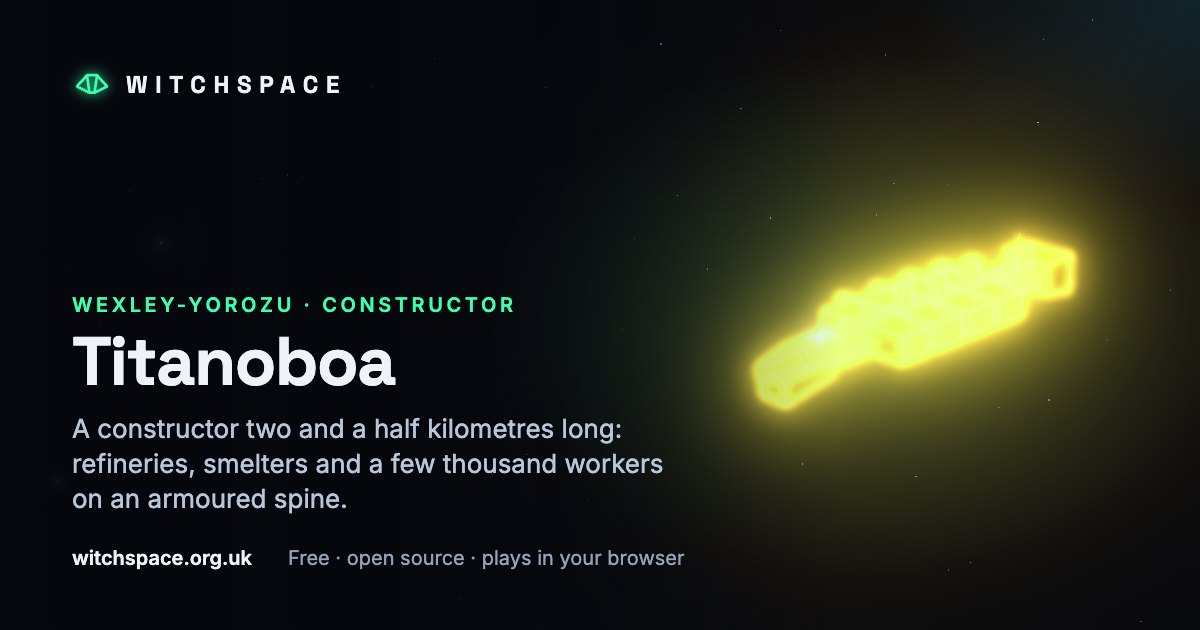
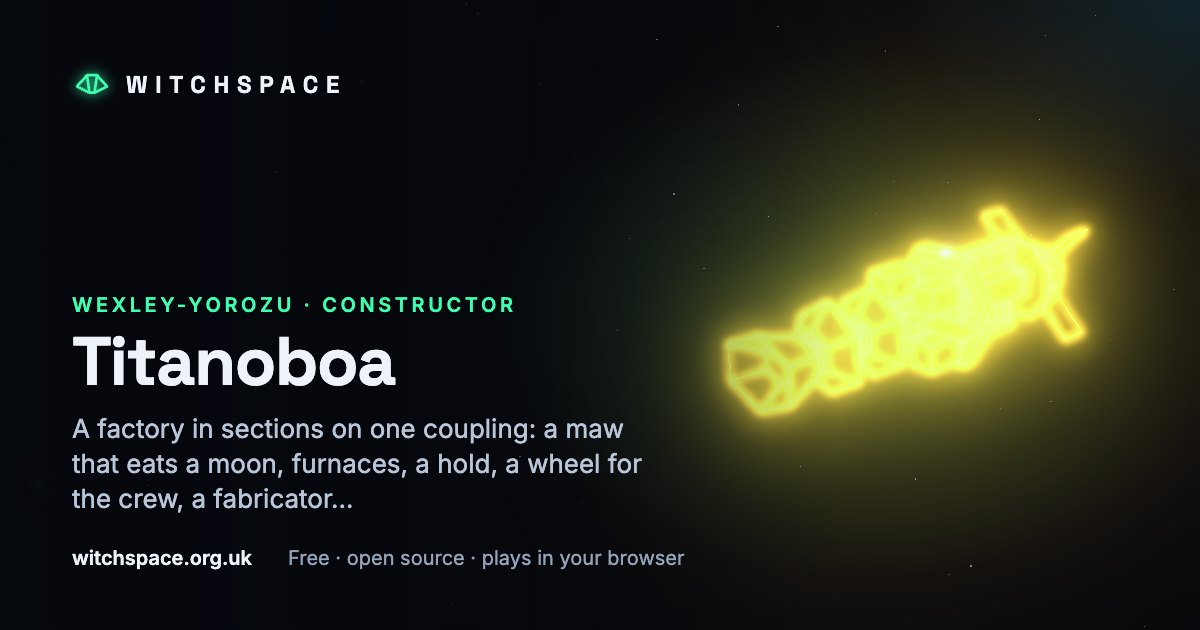
The docking film on YouTube, the channel in the footer and schema.org; share cards for the new Titanoboa and the new designs, and long card lines end at a word

Changed region(s): [[0.5858, 0.2714, 0.925, 0.6937], [0.0617, 0.6635, 0.555, 0.754], [0.0617, 0.7841, 0.3083, 0.8143]]

diff --git a/tools/build-site.ts b/tools/build-site.ts
@@ -61,7 +61,7 @@ const PAGE_CARDS: Record<string, NonNullable<Page['card']>> = {
   '/careers/': { ship: 'bullsnake', kicker: 'Careers', title: 'Careers in the eight galaxies', sub: 'Four companies are hiring pilots. Fly for one.' },
 };
 
-const ORG = { '@type': 'Organization', name: 'Witchspace', url: SITE, logo: `${SITE}/icons/icon-512.png`, sameAs: ['https://github.com/witchspace-game/witchspace', 'https://www.instagram.com/witchspace_game/'] };
+const ORG = { '@type': 'Organization', name: 'Witchspace', url: SITE, logo: `${SITE}/icons/icon-512.png`, sameAs: ['https://github.com/witchspace-game/witchspace', 'https://www.instagram.com/witchspace_game/', 'https://www.youtube.com/channel/UC0ZD9s_rEYbGhXb3S6ai-Iw'] };
 const GAME = {
   '@type': 'VideoGame',
   name: 'Witchspace',

diff --git a/tools/ships.ts b/tools/ships.ts
@@ -49,7 +49,11 @@ const ROLE: Record<string, string> = {
 };
 
 /** The first sentence, for a share card's line. */
-const firstSentence = (text: string) => (text.match(/^.*?[.!?](\s|$)/)?.[0] ?? text).trim().slice(0, 120);
+const firstSentence = (text: string) => {
+  const first = (text.match(/^.*?[.!?](\s|$)/)?.[0] ?? text).trim();
+  // Too long for a card: end at a word, with an ellipsis, never mid-phrase.
+  return first.length > 120 ? first.slice(0, first.lastIndexOf(' ', 117)).replace(/[,;:·\s]+$/, '').replace(/\s(and|or|a|the)$/, '') + '…' : first;
+};
 
 const esc = (s: string) => s.replace(/&/g, '&amp;').replace(/</g, '&lt;').replace(/>/g, '&gt;').replace(/"/g, '&quot;');
 

diff --git a/site/template.html b/site/template.html
@@ -84,6 +84,7 @@
             <li><a href="https://github.com/witchspace-game/witchspace">GitHub</a></li>
             <li><a href="https://github.com/witchspace-game/witchspace/discussions">Discussions</a></li>
             <li><a href="https://www.instagram.com/witchspace_game/">Instagram</a></li>
+            <li><a href="https://www.youtube.com/channel/UC0ZD9s_rEYbGhXb3S6ai-Iw">YouTube</a></li>
             <li><a href="mailto:hello@witchspace.org.uk">hello@witchspace.org.uk</a></li>
           </ul>
         </div>
